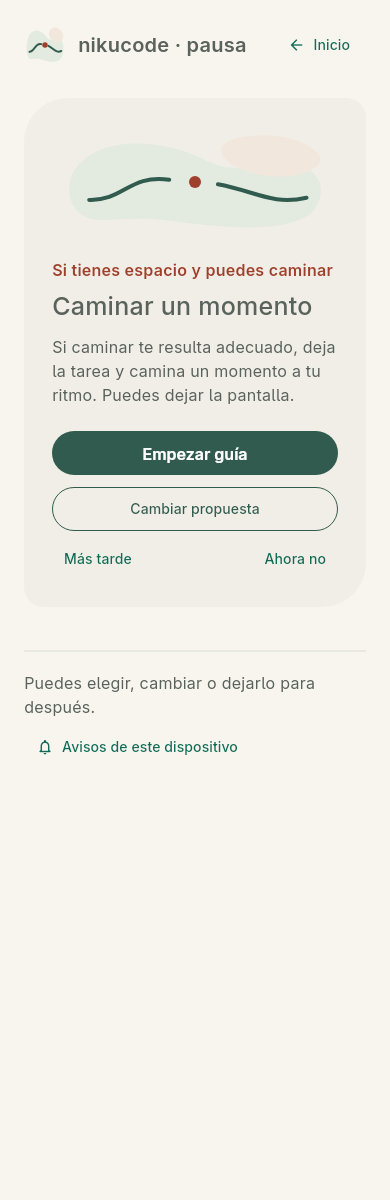
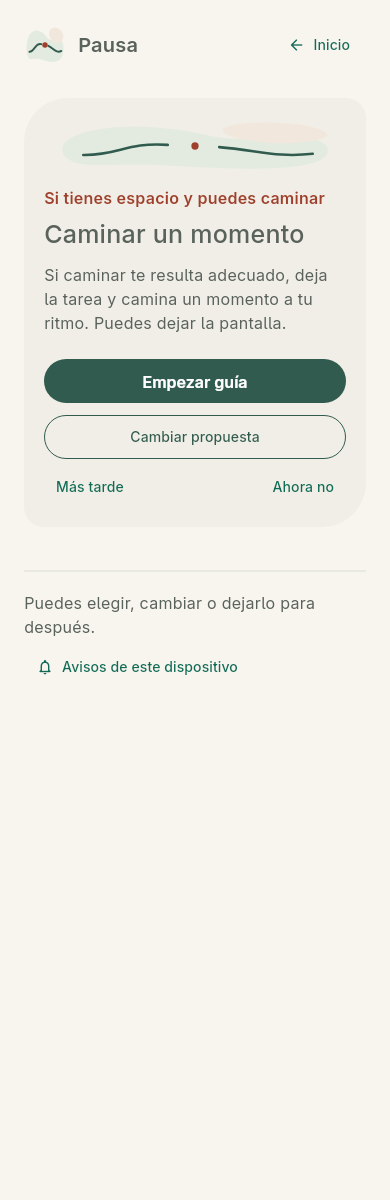
feat(ui): compactar propuesta para texto ampliado

diff --git a/app/lib/main.dart b/app/lib/main.dart
@@ -101,7 +101,7 @@ class PauseHome extends StatelessWidget {
                         runSpacing: 12,
                         crossAxisAlignment: WrapCrossAlignment.center,
                         children: [
-                          const Row(
+                          Row(
                             mainAxisSize: MainAxisSize.min,
                             children: [
                               ExcludeSemantics(
@@ -114,7 +114,7 @@ class PauseHome extends StatelessWidget {
                               SizedBox(width: 12),
                               Flexible(
                                 child: Text(
-                                  'nikucode · pausa',
+                                  onHome ? 'nikucode · pausa' : 'Pausa',
                                   style: TextStyle(
                                     fontWeight: FontWeight.w600,
                                     fontSize: 20,
@@ -377,7 +377,7 @@ class _PausePanel extends StatelessWidget {
       ],
     };
     return Container(
-      padding: const EdgeInsets.all(28),
+      padding: EdgeInsets.all(vm.stage == PauseStage.home ? 28 : 20),
       decoration: const BoxDecoration(
         color: Color(0xFFF0EEE7),
         borderRadius: BorderRadius.only(
@@ -390,13 +390,13 @@ class _PausePanel extends StatelessWidget {
       child: Column(
         crossAxisAlignment: CrossAxisAlignment.stretch,
         children: [
-          const ExcludeSemantics(
+          ExcludeSemantics(
             child: SizedBox(
-              height: 112,
+              height: vm.stage == PauseStage.home ? 112 : 56,
               child: CustomPaint(painter: _PauseMark()),
             ),
           ),
-          const SizedBox(height: 20),
+          SizedBox(height: vm.stage == PauseStage.home ? 20 : 12),
           ...children,
         ],
       ),

diff --git a/app/tool/checkpoint_smoke.dart b/app/tool/checkpoint_smoke.dart
@@ -157,6 +157,11 @@ Future<void> main() async {
       'valid delivered action opens proposal',
     );
     check(renderedText().contains('Empezar guía'), 'proposal action rendered');
+    check(
+      renderedText().contains('Pausa') &&
+          !renderedText().contains('nikucode · pausa'),
+      'active flow uses compact brand header',
+    );
     textScale.value = TextScaler.linear(2);
     await capture('mobile_proposal_200_percent', const Size(390, 844));
     textScale.value = TextScaler.noScaling;

diff --git a/docs/PRIMER_RECORRIDO_Y_CHECKPOINT_2026-10-23.md b/docs/PRIMER_RECORRIDO_Y_CHECKPOINT_2026-10-23.md
@@ -6,7 +6,7 @@
 
 Inicio → propuesta → cambiar → guía → terminar/detener → volver; rechazo sin reprogramación. Dos propuestas: caminar si resulta adecuado y movimiento habitual elegido. Vistas adaptables a ancho disponible, controles etiquetados y sin animación o seguimiento obligatorio.
 
-**Actualización visual posterior:** la pantalla usa fondo marfil, acentos verde musgo/terracota y una forma de trazo interrumpido; el panel principal reemplaza la tarjeta blanca uniforme. En la última iteración, la introducción solo aparece en inicio; propuesta, guía y cierre muestran directamente su contenido, evitando repetir el bloque de bienvenida. El motor Flutter headless generó capturas actuales a 1200 y 390 px, incluida una propuesta con texto al 200 %. La ampliación se renderiza, pero los controles quedan más abajo y requieren desplazamiento. No se probaron gestos, teclado ni lector de pantalla.
+**Actualización visual posterior:** la pantalla usa fondo marfil, acentos verde musgo/terracota y una forma de trazo interrumpido; el panel principal reemplaza la tarjeta blanca uniforme. En el recorrido abierto, la introducción deja de repetirse, el encabezado de marca se compacta a «Pausa» y el adorno se reduce. El motor Flutter headless generó capturas actuales a 1200 y 390 px, incluida una propuesta con texto al 200 %. La acción principal aparece al borde inferior de la primera vista y los controles restantes requieren desplazamiento. No se probaron gestos, teclado ni lector de pantalla.
 
 Avisos habilitados explícitamente, programación puntual en memoria, reemplazo/cancelación y generación vigente. Adaptadores Linux y navegador separados. Al toque se solicita activar ventana/pestaña y abrir propuesta; llegada sola no toma foco. Sin servicio Android nativo implementado, persistencia, background independiente del proceso, recurrencia o sincronización.
 
@@ -19,7 +19,8 @@ Avisos habilitados explícitamente, programación puntual en memoria, reemplazo/
 | Linux | Build debug compiló; lanzamiento de ventana en esta sesión falla `cannot open display: :0` |
 | Web | Build release compiló, con recursos web locales; aviso no fatal de fuente Cupertino ausente, sin fallo de compilación |
 | Runner de tests | Bloqueado antes de suites por bind127.0.0.1 no permitido. Casos de lógica/widgets escritos, no declarados pasados |
-| Motor Flutter offline | Harness ejecutado con VMservice deshabilitado: 19 comprobaciones, ocho capturas y cero errores Flutter, con canal fake; [resultado](evidencia/checkpoint_smoke_result.json) |
+| Motor Flutter offline | Harness ejecutado con VMservice deshabilitado: 20 comprobaciones, ocho capturas y cero errores Flutter, con canal fake; [resultado](evidencia/checkpoint_smoke_result.json) |
+| Recompilación tras compactar la interfaz | `flutter analyze --no-pub`, Linux debug y web release compilaron. La compilación web conserva un aviso no fatal por fuente Cupertino no incluida; la app compila. |
 | Vista de escritorio/móvil | Capturas actuales del motor a 1200 y 390 px inspeccionadas; no equivalen a dispositivo físico. La captura de propuesta al 200 % muestra que sus acciones necesitan desplazamiento. |
 | Avisos reales | No verificados: acceso a bus del escritorio bloqueado en sesión; permiso/navegador/apertura desde aviso requieren prueba del equipo |
 | Movimiento/hábito | No medidos ni inferidos de la guía |

diff --git a/docs/ESTADO_COMPARTIDO.md b/docs/ESTADO_COMPARTIDO.md
@@ -8,8 +8,8 @@ Actualización: 23 de octubre de 2026. Registro compartido para integrantes y as
 - Al iniciar esta revisión, `main` y `origin/main` apuntaban a `b6c3318`, que incluye la primera app y la actualización visual. La iteración de interfaz descrita abajo está en cambios locales aún no publicados.
 - La fase «A construir» comenzó a las 09:45, una vez terminada la bienvenida, según el programa compartido por el equipo.
 - Primera app nueva en `app/`, con Flutter 3.47.7/Dart 3.13.5 como base inicial de implementación. Compilaron Linux debug y web. Android tiene scaffold, sin APK/canal nativo probado; dispositivos físicos aún por confirmar.
-- Recorrido/estado/render comprobados con motor Flutter headless: 19 checks, ocho capturas, cero errores Flutter y canal simulado. `flutter analyze --no-pub` pasó. Build Linux y web compilaron antes del ajuste más reciente; se volverán a compilar. La ventana Linux no pudo abrirse en esta sesión porque no hay display disponible. Gestos, lector de pantalla, avisos del SO y teléfono real siguen sin verificar. Ver [evidencia](PRIMER_RECORRIDO_Y_CHECKPOINT_2026-10-23.md).
-- En propuesta, guía y cierre se quitó la introducción repetida para llevar antes a la acción. Las capturas actuales están en `docs/evidencia/`; a 200 % de texto la propuesta requiere desplazamiento para llegar a sus controles. No es una evaluación de interacción ni certificación de accesibilidad.
+- Recorrido/estado/render comprobados con motor Flutter headless: 20 checks, ocho capturas, cero errores Flutter y canal simulado. `flutter analyze --no-pub` y builds Linux debug/web release pasaron. La ventana Linux no pudo abrirse en esta sesión porque no hay display disponible. Gestos, lector de pantalla, avisos del SO y teléfono real siguen sin verificar. Ver [evidencia](PRIMER_RECORRIDO_Y_CHECKPOINT_2026-10-23.md).
+- En propuesta, guía y cierre se quitó la introducción repetida; además, el encabezado interno se compacta y el adorno se reduce con el recorrido abierto. A 200 % la acción principal aparece al borde inferior y los demás controles requieren desplazamiento. Las capturas actuales están en `docs/evidencia/`; esto no es una evaluación de interacción ni certificación de accesibilidad.
 - Preparados: investigación, especificación, fuentes, aceptación, rutas técnicas, guion de checkpoint, defensa y borrador de cinco diapositivas.
 
 ## Decisiones y propuestas
